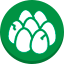
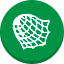
Nuevo icono para Cazar Gungubos
Los enlaces al muro apuntan a la Home ("/") en lugar de a la accion del controlador

Ajustes CSS

Diferenciados los botones de Iniciar Batalla, Ya llamo yo y Llamada hecha

Ajustados los literales de la última batalla

Changed region(s): [[0.125, 0.1562, 0.875, 0.8438]]

diff --git a/css/main.css b/css/main.css
@@ -246,7 +246,8 @@ article.first{
 
 article.system, article.omelettus, article.libre{
     clear:both;
-    margin: 1em auto;
+    margin-left: auto;
+    margin-right: auto;
 }
 
 article.notification h1{
@@ -298,7 +299,7 @@ article.notification .timestamp{
     color:#363636;
     font-size: .6em;
     position:absolute;
-    top: 3.3em;
+    top: 2.8em;
     right: 2%;
 }
 
@@ -471,6 +472,24 @@ label.title{
     border-width: 3px 0 3px 0;
     border-color: #005415 transparent transparent;
     color: #ffffff;
+}
+
+#btnBattle a{
+    border-style: solid;
+    border-radius: 3px;
+    border-width: 3px 0 3px 0;
+    padding: .7em 1em;
+    background-color: #e0e0e0;
+    border-color: transparent transparent #c5c5c5;
+    cursor: pointer;
+    color:#363636;
+    text-decoration: none;
+}
+
+#btnBattle a:hover, #btnBattle a:active{
+    border-width: 3px 0 3px 0;
+    border-color:#c5c5c5 transparent transparent;
+    color: #363636;
 }
 
 .centerContainer{
@@ -993,7 +1012,7 @@ label.title{
 }
 
 .scoreSide{
-    padding: 0 10px;
+    padding: 0 5px;
 }
 
 .paddedContent{
@@ -1185,8 +1204,8 @@ p.bebida{
 
 .tipoPedido{
     float: left;
-    width: 35%;
-    padding-left: 15%;
+    width: 40%;
+    padding-left: 10%;
     min-width: 10em;
 }
 

diff --git a/protected/views/layouts/main.php b/protected/views/layouts/main.php
@@ -48,7 +48,7 @@
                             <li>
                             <?php
                                 $img = CHtml::image(Yii::app()->request->baseUrl.'/images/notificationsIcon.png','Notificaciones');
-                                echo CHtml::link($img,array('#'),array('title' => 'Enséñame las notificaciones, Oh! Gran Omelettus!','id' => 'notificationsMainLink'));
+                                echo CHtml::link($img,array('/'),array('title' => 'Enséñame las notificaciones, Oh! Gran Omelettus!','id' => 'notificationsMainLink'));
                             ?>
                             </li>
                             <li>
@@ -59,7 +59,7 @@
                                     $img = CHtml::image(Yii::app()->request->baseUrl.'/images/hideUserBlock.png','No quiero ver el panel de usuario');
                                 }
 
-                                echo CHtml::link($img,array('#'), array('title' => 'No quiero ver el panel de usuario','id' => 'userpanelMainLink'));
+                                echo CHtml::link($img,array('/'), array('title' => 'No quiero ver el panel de usuario','id' => 'userpanelMainLink'));
                             ?>
                             </li>
                         <?php endif; ?>
@@ -120,16 +120,16 @@
             $this->widget('zii.widgets.CMenu',array(
                 'items'=>array(
                     //Menú principal
-                    array('label'=>'Notificaciones', 'url'=>array('/site/index'), 'visible'=>(Yii::app()->user->checkAccess('Usuario')), 'active'=>$this->id=='site'?true:false),
+                    array('label'=>'Notificaciones', 'url'=>array('/'), 'visible'=>(Yii::app()->user->checkAccess('Usuario')), 'active'=>$this->id=='site'?true:false),
                     array('label'=>'Alistamiento', 'url'=>array('/enrollment'), 'visible'=>(Yii::app()->user->checkAccess('Usuario') && isset(Yii::app()->event->model) && Yii::app()->event->type=='desayuno' && (Yii::app()->event->status==Yii::app()->params->statusIniciado || Yii::app()->event->status==Yii::app()->params->statusBatalla)), 'active'=>$this->id=='enrollment'?true:false),
                     array('label'=>'Batalla', 'url'=>array('/event'), 'visible'=>(Yii::app()->user->checkAccess('Usuario') && isset(Yii::app()->event->model) && Yii::app()->event->status!=Yii::app()->params->statusCerrado), 'active'=>($this->id=='event' && $this->action->id=='index')?true:false),
                     array('label'=>'Histórico de batallas', 'url'=>array('/history'), 'visible'=>(Yii::app()->user->checkAccess('Usuario')), 'active'=>$this->id=='history'?true:false),
 
                     //Enlaces de batalla
-                    array('label'=>'Iniciar batalla', 'url'=>array('/event/start'), 'visible'=>(Yii::app()->user->checkAccess('Usuario') && Yii::app()->user->checkAccess('lanzar_evento') && isset(Yii::app()->event->model) && Yii::app()->event->status==Yii::app()->params->statusIniciado)),
-                    array('label'=>'Aceptar derrota', 'url'=>array('/event/finish'), 'visible'=>(Yii::app()->user->checkAccess('Usuario') && isset(Yii::app()->event->model) && Yii::app()->event->status==Yii::app()->params->statusBatalla && isset(Yii::app()->event->callerId) && Yii::app()->event->callerId==Yii::app()->user->id)),
+                    array('label'=>'Iniciar batalla', 'url'=>array('/event/start'), 'visible'=>(Yii::app()->user->checkAccess('Usuario') && Yii::app()->user->checkAccess('lanzar_evento') && isset(Yii::app()->event->model) && Yii::app()->event->status==Yii::app()->params->statusIniciado), 'itemOptions' => array('id' => 'btntBattle')),
+                    array('label'=>'Aceptar derrota', 'url'=>array('/event/finish'), 'visible'=>(Yii::app()->user->checkAccess('Usuario') && isset(Yii::app()->event->model) && Yii::app()->event->status==Yii::app()->params->statusBatalla && isset(Yii::app()->event->callerId) && Yii::app()->event->callerId==Yii::app()->user->id), 'itemOptions' => array('id' => 'btntBattle')),
                     array('label'=>'Pedido', 'url'=>array('/event/finish'), 'visible'=>(Yii::app()->user->checkAccess('Usuario') && isset(Yii::app()->event->model) && Yii::app()->event->status==Yii::app()->params->statusFinalizado && isset(Yii::app()->event->callerId) && Yii::app()->event->callerId==Yii::app()->user->id), 'active'=>($this->id=='event' && $this->action->id=='finish')?true:false),
-                    array('label'=>'Ya he llamado', 'url'=>array('/event/close'), 'visible'=>(Yii::app()->user->checkAccess('Usuario') && isset(Yii::app()->event->model) && Yii::app()->event->status==Yii::app()->params->statusFinalizado && isset(Yii::app()->event->callerId) && Yii::app()->event->callerId==Yii::app()->user->id)),
+                    array('label'=>'Ya he llamado', 'url'=>array('/event/close'), 'visible'=>(Yii::app()->user->checkAccess('Usuario') && isset(Yii::app()->event->model) && Yii::app()->event->status==Yii::app()->params->statusFinalizado && isset(Yii::app()->event->callerId) && Yii::app()->event->callerId==Yii::app()->user->id), 'itemOptions' => array('id' => 'btntBattle')),
 
                     //Admin pages
                     //array('label'=>'Administración', 'url'=>array('/admin/index'), 'visible'=>Yii::app()->user->checkAccess('Administrador'), 'active'=>($this->id=='admin' && $this->action->id=='index')?true:false),

diff --git a/protected/views/history/index.php b/protected/views/history/index.php
@@ -31,7 +31,7 @@
                 }
             ?>
             <p><?php
-                    if($kafheVictory && $event->caller_side == "kafhe"){
+                    if(($kafheVictory && $event->caller_side == "kafhe") || (!$kafheVictory && $event->caller_side != "kafhe")){
                         echo 'Así fue como ';
                     }else{
                         echo 'Sin embargo ';

diff --git a/protected/views/layouts/mail.php b/protected/views/layouts/mail.php
@@ -21,7 +21,7 @@
 		</tr>
         <tr>
             <td>
-                <p>No lo pienses mas y entra directamente a <?php Chtml::link('kafhe',Yii::app()->getBaseUrl(true));?></p>
+                <p>No lo pienses mas y entra directamente a <?php echo Chtml::link('kafhe',Yii::app()->getBaseUrl(true));?></p>
             </td>
         </tr>
 	</tbody>
